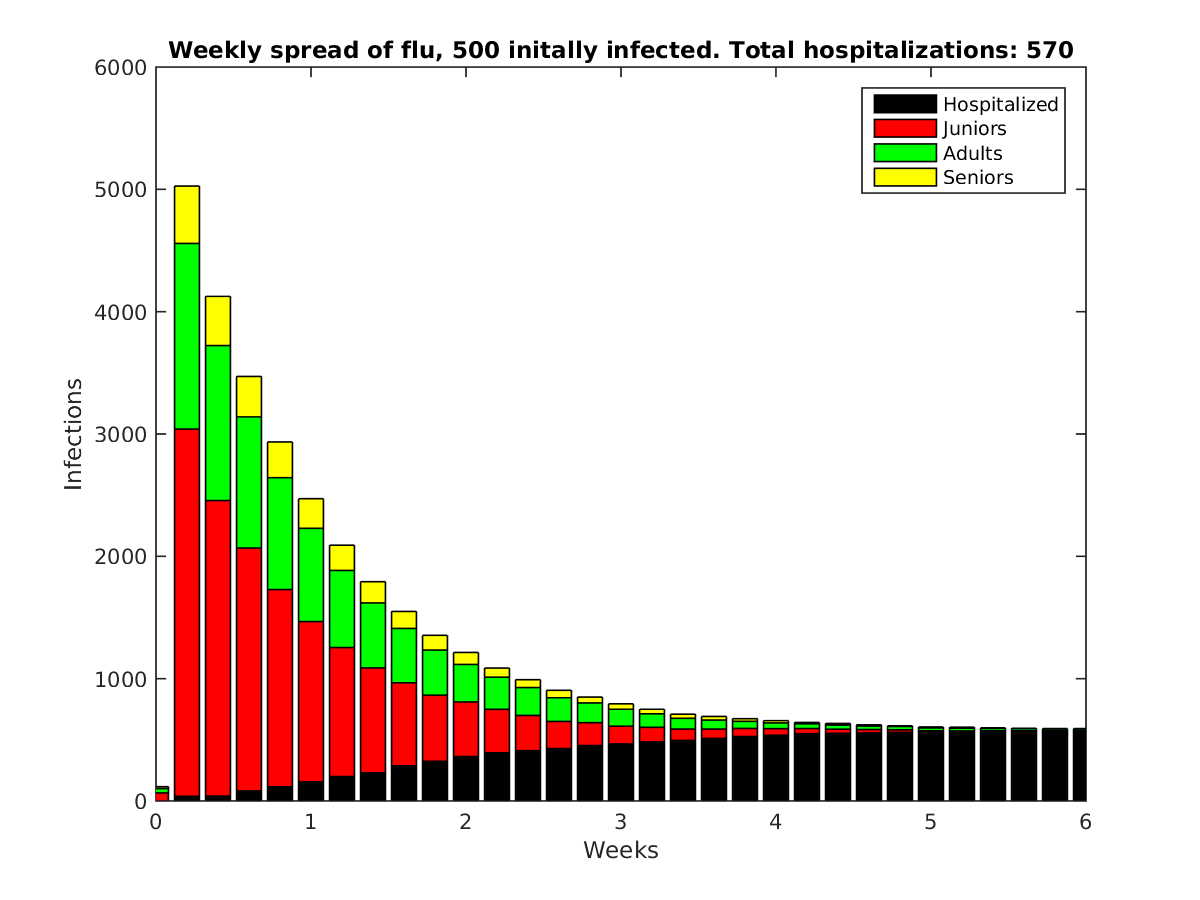
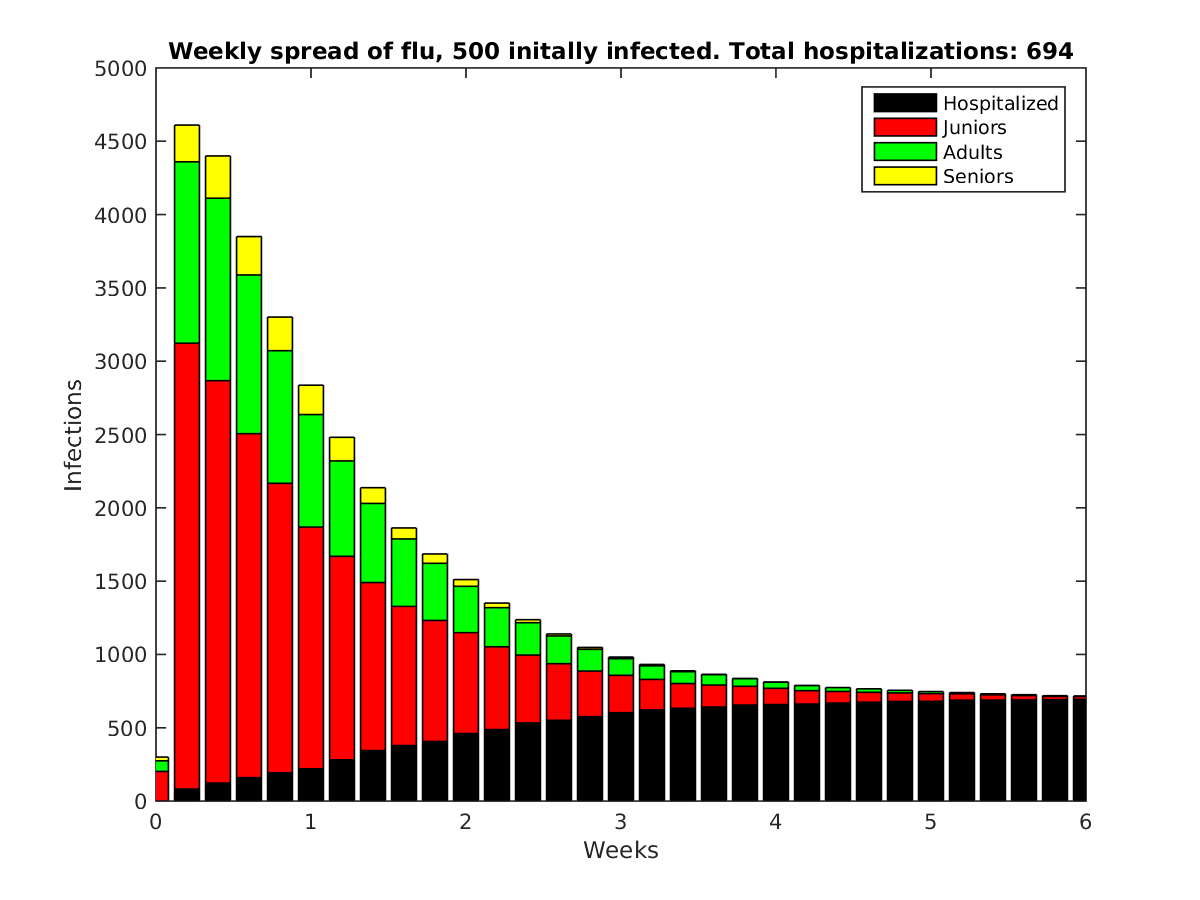
No more deltas

diff --git a/models/stochastic/spread.m b/models/stochastic/spread.m
@@ -1,4 +1,4 @@
-function [peak, hosps] = spread(age_range, div, p)
+function [peak, hosps, sick_per_delta] = spread(age_range, div, p)
   if nargin == 1
     div = 10;
     p = false;
@@ -22,7 +22,7 @@ function [peak, hosps] = spread(age_range, div, p)
   ithaca_pop = ithaca_pop/div;
   vaccines = vaccines/div;
 
-  init_sick = ithaca_pop/50;
+  init_sick = ithaca_pop/20;
 
   % Census data for age ranges
   num_juniors   = 0.6*ithaca_pop;
@@ -33,74 +33,118 @@ function [peak, hosps] = spread(age_range, div, p)
   adult_center    = num_juniors + num_adults/2;
   senior_center   = num_juniors + num_adults + num_seniors/2;
 
-  citizens = Person(0);
+  heal_chance = 0.8;
 
-  for i = 1:ithaca_pop
-    if i <= num_juniors
-      citizens(i) = Person(1);
-    elseif i <= (num_juniors + num_adults)
-      citizens(i) = Person(2);
-    else
-      citizens(i) = Person(3);
+  age = zeros(1, ithaca_pop);
+  sick = zeros(1, ithaca_pop);
+  hospitalized = zeros(1, ithaca_pop);
+  vaccinated = zeros(1, ithaca_pop);
+
+  function conn = connectivity(age)
+    switch age
+      case 1
+        conn = 1000/div;
+      case 2
+        conn = 30/div;
+      case 3
+        conn = 10/div;
     end
   end
 
-  for c = citizens(round(rand(1,init_sick)*(ithaca_pop - 1)) + 1)
-    c.is_sick = true;
+  function comp = comp_chance(age)
+    switch age
+      case 1
+        comp = 0.05;
+      case 2
+        comp = 0.2;
+      case 3
+        comp = 0.75;
+    end
+  end
+
+  for i = 1:ithaca_pop
+    if i <= num_juniors
+      age(i) = 1;
+    elseif i <= (num_juniors + num_adults)
+      age(i) = 2;
+    else
+      age(i) = 3;
+    end
   end
 
   deltas = 5;
   weeks = 6; % 3 months
   sick_per_delta = zeros(1 + weeks*deltas, 4);
 
-  for c = citizens
-    if c.is_sick
-      sick_per_delta(1, c.age + 1) = sick_per_delta(1, c.age + 1) + 1;
-    end
+  for c = round(rand(1,init_sick)*(ithaca_pop - 1)) + 1
+    sick(c) = true;
+    sick_per_delta(1, age(c) + 1) = sick_per_delta(1, age(c) + 1) + 1;
   end
 
-  for d = 1:weeks*deltas
-    % if ~mod(d, deltas)
-    %   disp(sprintf('Week: %d',d/deltas));
-    % end
-    vaccinated = 0;
-    while vaccinated ~= (vaccines/deltas)
-      random_citizen = random_vaccine(age_range);
-      if ~citizens(random_citizen).is_sick && ~citizens(random_citizen).is_vaccinated
-        citizens(random_citizen).is_vaccinated = true;
-        vaccinated = vaccinated + 1;
+  n = 1;
+  for w = 1:weeks
+    disp(sprintf('Week: %d', w));
+    for d = 1:deltas
+      vax = 0;
+      peep = 1;
+      switch age_range
+        case 1
+          while vax ~= (vaccines/deltas)
+            if ~vaccinated(peep)
+              vaccinated(peep) = true;
+              vax = vax + 1;
+            end
+            peep = peep + 1;
+            if peep == ithaca_pop
+              break
+            end
+          end
+        case 3
+          while vax ~= (vaccines/deltas)
+            if ~vaccinated(ithaca_pop - peep + 1)
+              vaccinated(ithaca_pop - peep + 1) = true;
+              vax = vax + 1;
+            end
+            peep = peep + 1;
+            if peep == ithaca_pop
+              break
+            end
+          end
       end
-    end
-    for citizen = citizens
-      if citizen.is_sick
-        if (rand < (citizen.heal_chance/deltas))
-          citizen.is_sick = false;
-          citizen.was_sick = true;
-        elseif (rand < (citizen.comp_chance/deltas))
-          citizen.is_sick = false;
-          citizen.is_hospitalized = true;
-        else
-          for c = citizens(random_vaccine(citizen.age, citizen.connectivity))
-            if (~c.is_vaccinated && ~c.was_sick && ~c.is_sick)
-              c.become_sick = (c.become_sick || rand < (0.5/deltas));
+      % become_sick =
+      for c = 1:ithaca_pop
+        if sick(c)
+          if (rand < (heal_chance/deltas))
+            sick(c) = false;
+            vaccinated(c) = true;
+          elseif (rand < (comp_chance(age(c))/deltas))
+            sick(c) = false;
+            hospitalized(c) = true;
+          else
+            for r = random_vaccine(age(c), connectivity(age(c)))
+              if (~vaccinated(r) && ~sick(r))
+                sick(r) = (sick(r) || rand < (0.8/deltas));
+              end
             end
           end
         end
       end
-    end
-    for c = citizens
-      if c.become_sick
-        c.is_sick = true;
-        c.become_sick = false;
+      n = n+1;
+      stats = zeros(1, 4);
+      for c = 1:ithaca_pop
+        if sick(c)
+          stats(age(c) + 1) = stats(age(c) + 1) + 1;
+        elseif hospitalized(c)
+          stats(1) = stats(1) + 1;
+        end
       end
+      sick_per_delta(n,:) = stats;
     end
-    for c = citizens
-      if c.is_sick
-        sick_per_delta(d+1, c.age + 1) = sick_per_delta(d+1, c.age + 1) + 1;
-      elseif c.is_hospitalized
-        sick_per_delta(d + 1, 1) = sick_per_delta(d + 1, 1) + 1;
-      end
-    end
+    % for c = 1:ithaca_pop
+    %   if c.become_sick
+    %     c.is_sick = true;
+    %   end
+    % end
   end
 
   if p
@@ -117,6 +161,6 @@ function [peak, hosps] = spread(age_range, div, p)
 
   peak = round(max(sum(sick_per_delta'))/ithaca_pop,4)*100;
   hosps = sick_per_delta(size(sick_per_delta,1), 1);
-  disp(sprintf('Peak infection rate: %f', peak));
+  disp(sprintf('Peak infection rate: %.2f', peak));
   disp(sprintf('Total hospitalizations: %d', hosps));
 end

diff --git a/models/stochastic/random_vaccine.m b/models/stochastic/random_vaccine.m
@@ -9,32 +9,28 @@ function people = random_vaccine(age, len)
   global adult_center;
   global senior_center;
 
+  num_people = [num_juniors, num_adults, num_seniors];
+  offset = [0, num_juniors, num_juniors + num_adults];
+
   if nargin == 1
-    switch age
-      case 1
-        people = min(ithaca_pop, max(1, round(normrnd(junior_center, num_juniors/4))));
-      case 2
-        people = min(ithaca_pop, max(1, round(normrnd(adult_center, num_adults))));
-      case 3
-        people = min(ithaca_pop, max(1, round(normrnd(senior_center, num_seniors/2))));
+    if rand < 0.75
+      people = round(rand*(num_people(age)-1)) + 1 + offset(age);
+    elseif rand < 0.5
+      people = round(rand*(num_people(mod(age + 1, 3) + 1)-1)) + 1 + offset(mod(age + 1, 3) + 1);
+    else
+      people = round(rand*(num_people(mod(age + 2, 3) + 1)-1)) + 1 + offset(mod(age + 2, 3) + 1);
     end
   else
     switch age
       case 1
-        ppl = round(normrnd(junior_center, num_juniors/2, 1, len));
-        ppl(ppl < 1) = 1;
-        ppl(ppl > ithaca_pop) = ithaca_pop;
-        people = ppl;
+        ppl = round(raylrnd(junior_center, 1, len));
       case 2
         ppl = round(normrnd(adult_center, num_adults, 1, len));
-        ppl(ppl < 1) = 1;
-        ppl(ppl > ithaca_pop) = ithaca_pop;
-        people = ppl;
       case 3
-        ppl = round(normrnd(senior_center, num_seniors/2, 1, len));
-        ppl(ppl < 1) = 1;
-        ppl(ppl > ithaca_pop) = ithaca_pop;
-        people = ppl;
+        ppl = round(ithaca_pop - raylrnd(senior_center, 1, len));
     end
+    ppl(ppl < 1) = 1;
+    ppl(ppl > ithaca_pop) = ithaca_pop;
+    people = ppl;
   end
 end

diff --git a/models/stochastic/Person.m b/models/stochastic/Person.m
@@ -5,7 +5,7 @@ classdef Person < handle
     is_vaccinated = false
     is_hospitalized = false % If complications encur, move to hospital, stop infecting other people
     was_sick = false  % Check if citizen has already been sick, assuming one can only get sick of the same strain once
-    heal_chance = 1      % Chance to heal after a given day
+    heal_chance = 0.90      % Chance to heal after a given day
     comp_chance       % Chance of complications due to sickness
     connectivity      % Number of people exposed to in a given day
     become_sick = false
@@ -16,17 +16,14 @@ classdef Person < handle
       this.age = age;
       switch age
         case 1
-          this.comp_chance = 0.05;
+          this.comp_chance = 1;
           this.connectivity = 100;
-          % this.heal_chance = 0.95;
         case 2
-          this.comp_chance = 0.1;
+          this.comp_chance = 1;
           this.connectivity = 50;
-          % this.heal_chance = 0.8;
         case 3
-          this.comp_chance = 0.75;
+          this.comp_chance = 1;
           this.connectivity = 10;
-          % this.heal_chance = 0.5;
       end
     end
   end

diff --git a/models/stochastic/kvalues.m b/models/stochastic/kvalues.m
@@ -1,0 +1,23 @@
+k = zeros(10, 2, 2);
+
+k(:,:,1) =[59.23, 6188
+61.06, 6097
+60.64, 6141
+59.66, 6203
+59.84, 6194
+60.72, 6212
+60.35, 6210
+60.36, 6411
+58.65, 6006
+60.07, 6232]
+
+k(:,:,2)=[59.34, 6240
+60.28, 6242
+59.75, 6182
+59.71, 5974
+59.85, 6156
+60.5 , 6200
+60.16, 6146
+60.28, 6197
+60.32, 6159
+59.98, 6240]

diff --git a/models/stochastic/compute.m b/models/stochastic/compute.m
@@ -1,13 +1,13 @@
 k = zeros(10, 2, 2);
 
 for n = 1:10
-  [p,q] = spread(1, 1);
+  [p,q] = spread(1, 10);
   k(n, 1, 1) = p;
   k(n, 2, 1) = q;
 end
 
 for n = 1:10
-  [p,q] = spread(1, 1);
+  [p,q] = spread(3, 10);
   k(n, 1, 2) = p;
   k(n, 2, 2) = q;
 end
